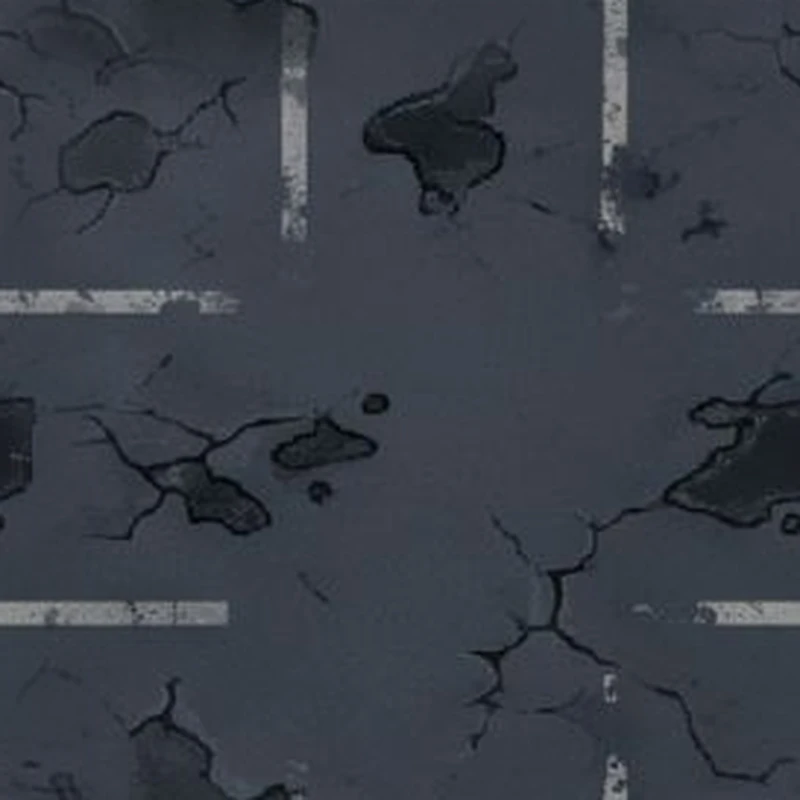
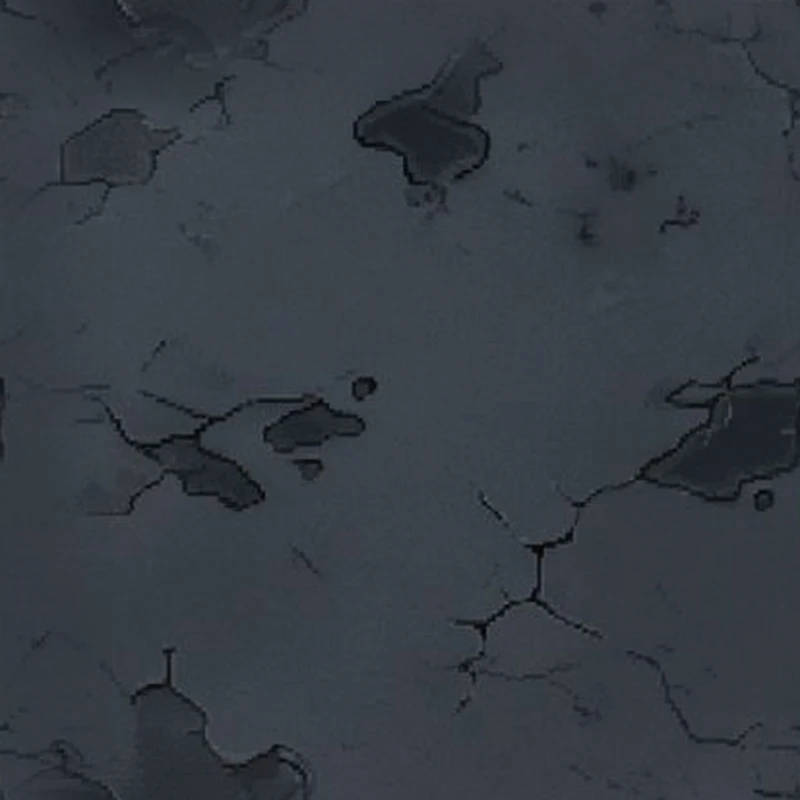
Round 453: the mall's own art; the garden quarter's walls; a second sheet in
Claude-Session: https://claude.ai/code/session_01XB2RMCaJ1aVVtBjSNk3FhS

diff --git a/assets/chrono-gen.js b/assets/chrono-gen.js
@@ -363,7 +363,7 @@ const GEN_THEMES = {
     bossRooms: () => { const R = TILE_WORLD_DATA.chronospire.roles; return [R.boss, R.boss1, R.boss2, R.mini1, R.mini2]; }, landing: null,
     districtNames: ['clock', 'foundry', 'homes', 'ruins'], districts: CHRONO_DISTRICTS, landmarks: CHRONO_LANDMARKS, furniture: CHRONO_FURNITURE, clutter: CHRONO_CLUTTER, scale: CHRONO_SCENERY_SCALE, inlays: CHRONO_INLAYS,
     tex: {}, kerb: ['#1c1206', '#b88a3c', '#5a3f18'], holeRim: ['#8a6c3a', '#17100a'], bedRim: ['#07060f', '#4a3a2a'], yardRim: ['#14101f', '#6f6a86'], groundShade: 'rgba(8,6,24,.28)', lamp: '255,196,96', vignette: '6,4,18' },
-  city: { id: 'city', art: 'assets/environment/city-gen/', version: () => '452',
+  city: { id: 'city', art: 'assets/environment/city-gen/', version: () => '453',
     exits: key => { const r = typeof CITY_ROOMS !== 'undefined' && CITY_ROOMS[key]; if (!r) return null; const out = {}; for (const [d, v] of Object.entries(r.exits)) if (d.length === 1) out[d] = typeof v === 'string' ? v : v.to; return out; },
     world: key => { const [x, y] = key.split(',').map(Number); return [x, y - 4]; },
     bossRooms: () => Object.keys(CITY_ROOMS).filter(k => CITY_ROOMS[k].enemy && enemies[CITY_ROOMS[k].enemy[0]] && enemies[CITY_ROOMS[k].enemy[0]].boss),
@@ -683,9 +683,9 @@ function genWorld(seed) {
 // tall); car (seen from above, facing east); tree (seen from above); sidewalk (Round 407: seamless paving; the first is
 // the city's main paving, the rest by block); edge (Round 409: a border strip run round parks, outer side at the top);
 // trim (Round 410: a border strip framing the squares where objects stand). Prompts: tools/art-refresh/city-topdown-prompts.md.
-const CITY_TD_ART = { 'waterfront-edge': ['shore-crumble', 'shore-seawall'], curb: ['curb-stone', 'curb-granite', 'curb-concrete'], 'park-edge': ['edge-granite', 'edge-kerb', 'edge-grass', 'edge-railing'], sidewalk: ['walk-slabs', 'walk-plates', 'walk-runbond', 'walk-hex', 'walk-poured'], roof: ['roof-tar', 'roof-plate', 'roof-slab', 'roof-finegravel', 'roof-bitumen', 'roof-tarchip', 'roof-seam'], wall: ['wall-concrete', 'wall-panel', 'wall-strip', 'wall-strip-dark'], shop: ['shop-noodle', 'shop-repair', 'shop-shutters'], 'prop-ac': ['ac-1', 'ac-2', 'ac-3', 'ac-twin'], 'prop-vent': ['vent-1', 'vent-3', 'vent-mesh'], 'prop-tank': ['tank-1', 'tank-sphere', 'tank-cylinder'], 'prop-stairs': ['stairs-1'], 'prop-solar': ['solar-1', 'solar-2'], 'prop-skylight': ['skylight-1', 'skylight-grid'], 'sign-h': ['sign-h-pink', 'sign-h-mixed', 'sign-h-pink2', 'sign-h-orange', 'sign-h-zigzag', 'sign-h-rings', 'sign-h-bulbs', 'sign-h-spiral'], 'sign-v': ['sign-v-cyan', 'sign-v-teal', 'sign-v-purple', 'sign-v-red', 'sign-v-tubes', 'sign-v-awning', 'sign-v-bulbs'], car: ['car-pickup', 'car-swat', 'car-forklift', 'car-digger', 'car-buggy', 'car-camper', 'car-trike', 'car-armour', 'car-crawler', 'car-sport', 'car-van', 'car-cargo'], tree: ['tree-1', 'tree-2', 'tree-3', 'tree-oak', 'tree-cypress', 'tree-dead', 'tree-glow', 'bush-flower', 'grass-reeds', 'brambles'], park: ['park-clover', 'park-cracked', 'park-gravel', 'park-leaves', 'park-turf'], 'roof-hole': ['hole-round', 'hole-crack', 'hole-double', 'hole-tear'], 'ruin-wall': ['ruin-concrete', 'ruin-cladding', 'ruin-panel', 'ruin-panel-blown'], rubble: ['rubble-slabs', 'rubble-rebar', 'rubble-masonry', 'rubble-trolley', 'rubble-barrel', 'rubble-glass', 'rubble-cornice', 'rubble-panels'], lamp: ['lamp-arm', 'lamp-twin', 'lamp-led'], 'traffic-light': ['light-pole', 'light-arm'], 'sign-traffic': ['sign-noentry', 'sign-holo'], cargo: ['container-red', 'container-blue', 'container-stack', 'drums', 'pods', 'hover-pallet', 'cable-drum', 'loader'], 'home-wall': ['home-shanty', 'home-pods'], 'home-roof': [], 'prop-heater': [], 'tech-wall': ['tech-megablock'], 'tech-roof': ['tech-led-plates', 'tech-glass-grid'], 'tech-shop': ['tech-lobby'], 'garden-wall': ['garden-greenhouse'], 'garden-roof': ['garden-glass', 'garden-hydro'], 'garden-shop': ['garden-flowers'], 'market-roof': [], 'market-shop': ['market-food', 'market-screens', 'market-pawn', 'market-tech'], clutter: ['dumpster', 'bags', 'vending', 'barricade', 'barrier', 'tyres', 'bench-led', 'recycler'], landmark: ['fountain', 'billboard', 'hovercar', 'sculpture', 'metro', 'holo-stage', 'mech'] };
+const CITY_TD_ART = { 'mall-wall': ['mall-glass-cyan', 'mall-glass-magenta'], 'mall-roof': ['mall-skylights'], 'mall-shop': ['mall-entrance'], 'waterfront-edge': ['shore-crumble', 'shore-seawall'], curb: ['curb-stone', 'curb-granite', 'curb-concrete'], 'park-edge': ['edge-granite', 'edge-kerb', 'edge-grass', 'edge-railing'], sidewalk: ['walk-slabs', 'walk-plates', 'walk-runbond', 'walk-hex', 'walk-poured'], roof: ['roof-tar', 'roof-plate', 'roof-slab', 'roof-finegravel', 'roof-bitumen', 'roof-tarchip', 'roof-seam', 'roof-rubber'], wall: ['wall-concrete', 'wall-panel', 'wall-strip', 'wall-strip-dark'], shop: ['shop-noodle', 'shop-repair', 'shop-shutters'], 'prop-ac': ['ac-1', 'ac-2', 'ac-3', 'ac-twin'], 'prop-vent': ['vent-1', 'vent-3', 'vent-mesh'], 'prop-tank': ['tank-1', 'tank-sphere', 'tank-cylinder'], 'prop-stairs': ['stairs-1'], 'prop-solar': ['solar-1', 'solar-2'], 'prop-skylight': ['skylight-1', 'skylight-grid'], 'sign-h': ['sign-h-pink', 'sign-h-mixed', 'sign-h-pink2', 'sign-h-orange', 'sign-h-zigzag', 'sign-h-rings', 'sign-h-bulbs', 'sign-h-spiral'], 'sign-v': ['sign-v-cyan', 'sign-v-teal', 'sign-v-purple', 'sign-v-red', 'sign-v-tubes', 'sign-v-awning', 'sign-v-bulbs'], car: ['car-pickup', 'car-swat', 'car-forklift', 'car-digger', 'car-buggy', 'car-camper', 'car-trike', 'car-armour', 'car-crawler', 'car-sport', 'car-van', 'car-cargo', 'car-wreck', 'truck-wreck'], tree: ['tree-1', 'tree-2', 'tree-3', 'tree-oak', 'tree-cypress', 'tree-dead', 'tree-glow', 'bush-flower', 'grass-reeds', 'brambles'], park: ['park-clover', 'park-cracked', 'park-gravel', 'park-leaves', 'park-turf'], 'roof-hole': ['hole-round', 'hole-crack', 'hole-double', 'hole-tear'], 'ruin-wall': ['ruin-concrete', 'ruin-cladding', 'ruin-panel', 'ruin-panel-blown', 'ruin-girder'], rubble: ['rubble-slabs', 'rubble-rebar', 'rubble-masonry', 'rubble-trolley', 'rubble-barrel', 'rubble-glass', 'rubble-cornice', 'rubble-panels'], lamp: ['lamp-arm', 'lamp-twin', 'lamp-led'], 'traffic-light': ['light-pole', 'light-arm'], 'sign-traffic': ['sign-noentry', 'sign-holo'], cargo: ['container-red', 'container-blue', 'container-stack', 'drums', 'pods', 'hover-pallet', 'cable-drum', 'loader'], 'home-wall': ['home-shanty', 'home-pods'], 'home-roof': [], 'prop-heater': [], 'tech-wall': ['tech-megablock'], 'tech-roof': ['tech-led-plates', 'tech-glass-grid'], 'tech-shop': ['tech-lobby'], 'garden-wall': ['garden-greenhouse', 'garden-planters', 'garden-moss'], 'garden-roof': ['garden-glass', 'garden-hydro'], 'garden-shop': ['garden-flowers'], 'market-roof': [], 'market-shop': ['market-food', 'market-screens', 'market-pawn', 'market-tech'], clutter: ['dumpster', 'bags', 'vending', 'barricade', 'barrier', 'tyres', 'bench-led', 'recycler', 'pay-bollard'], landmark: ['fountain', 'billboard', 'hovercar', 'sculpture', 'metro', 'holo-stage', 'mech', 'pylon'] };
 // Round 415: for each wall and shopfront strip, the columns (image px) of plain wall between windows (tools/prepare_city_art.py).
-const CITY_TD_GAPS = {'wall-concrete': [4, 19, 29, 41, 127, 134, 147, 258, 440, 446, 453], 'wall-brick': [2, 11, 19, 73, 81, 291, 299, 307, 362, 371, 377, 435, 441, 447, 456, 515, 523, 585, 595, 601, 674, 741, 750, 756, 804], 'wall-panel': [19, 30, 40, 47, 58, 64, 75, 158, 206, 213, 222, 237, 246, 286, 293, 304, 310, 618, 657, 667, 677, 687, 698, 740, 748], 'shop-noodle': [0, 6, 18, 24, 30, 38, 57, 66, 78, 84, 92, 103, 113, 302, 436, 443, 452], 'shop-repair': [25, 34, 41, 48, 56, 63, 76, 170, 176, 197, 280, 287, 401, 409, 437, 444, 450, 457, 596, 606, 628, 641, 655, 662, 669, 675], 'shop-shutters': [12, 28, 40, 79, 85, 100, 107, 125, 238, 252, 306, 320, 473, 479, 506, 515, 527, 538, 544, 559, 665, 671, 688, 698, 717], 'ruin-brick': [2, 8, 19, 33, 91, 131, 138, 167, 173, 180, 186, 281, 348, 362, 429, 435, 442, 448, 519, 544, 611, 624, 692, 698, 705, 711, 783, 796, 806, 872, 880, 890], 'ruin-concrete': [5, 14, 21, 79, 105, 113, 162, 174, 254, 265, 276, 366, 466, 474, 529, 543, 655, 715, 725, 822, 842, 899, 906, 925, 977], 'ruin-cladding': [3, 186, 283, 365, 376, 566, 613, 626, 657, 664, 673, 685, 692, 705, 713, 725, 733, 752, 759, 771, 779, 787, 799, 810, 818, 831, 842, 850, 945], 'ruin-plaster': [53, 68, 80, 104, 131, 175, 196, 402, 426, 434, 441, 576, 591, 601, 640, 656, 672, 686, 697, 844, 854, 885, 914, 920, 928, 935], 'home-tenement': [23, 47, 69, 106, 119, 218, 225, 239, 248, 334, 345, 361, 445, 457, 471, 481, 564, 570, 578, 785, 795, 804, 888, 899, 952, 1022, 1029, 1133, 1144, 1151, 1163, 1244, 1253, 1262, 1351, 1400, 1480, 1492, 1499, 1579, 1589, 1596, 1610, 1618], 'home-shanty': [13, 68, 77, 139, 145, 151, 157, 163, 169, 175, 239, 246, 261, 269, 374, 381, 491, 498, 513, 527, 578, 681, 692, 725, 735, 854, 886], 'tech-megablock': [43, 68, 125, 131, 142, 190, 232, 286, 336, 388, 394, 431, 439, 482, 524, 572, 583, 625, 706, 717, 757, 801, 813, 860, 866, 873, 915, 1010], 'tech-lobby': [0, 26, 37, 61, 75, 87, 100, 129, 142, 152, 158, 172, 394, 402, 410, 426, 434, 697, 710, 743, 752, 791, 972, 982, 989, 1002, 1018], 'garden-ivy': [1, 12, 62, 71, 82, 96, 104, 113, 187, 443, 451, 479, 539, 632, 647, 665, 805, 811], 'garden-greenhouse': [115, 125, 140, 234, 252, 335, 353, 367, 376, 471, 575, 590, 687, 709, 720], 'garden-flowers': [15, 23, 44, 62, 76, 90, 107, 115, 124, 131, 148, 170, 578, 590, 602, 609, 643, 665, 673, 682], 'market-food': [3, 88, 105, 114, 124, 131, 159, 187, 196, 206, 274, 496, 1126, 1149, 1178, 1211, 1219, 1253, 1277, 1305, 1358, 1396, 1424, 1432, 1438, 1453, 1466, 1474, 1486, 1494, 1509, 1526, 1536, 1549, 1579, 1588, 1601, 1611, 1625, 1713], 'market-screens': [41, 61, 99, 105, 119, 126, 132, 140, 150, 278, 284, 293, 301, 559, 612, 689, 713, 719, 860, 873, 895, 901, 946, 952, 962, 968, 977, 1206, 1216, 1236, 1246, 1344, 1352, 1360, 1371, 1505, 1529, 1541, 1628, 1635, 1642, 1704, 1711], 'market-cloth': [13, 24, 67, 74, 83, 89, 142, 155, 319, 336, 450, 460, 467, 479, 498, 505, 515, 523, 590, 605, 769, 781, 793, 804, 835, 846, 890, 925, 959, 973, 981, 990, 1189, 1203, 1225, 1314, 1329, 1343, 1357, 1549, 1555, 1561, 1639, 1647, 1654, 1664, 1684, 1697], 'market-pawn': [12, 30, 46, 59, 68, 83, 94, 102, 113, 125, 136, 155, 301, 310, 340, 352, 575, 608, 782, 944, 953, 959, 966, 980, 988, 997, 1189, 1199, 1210, 1391, 1430, 1439, 1538, 1545, 1567, 1594, 1603, 1610, 1617, 1624, 1635, 1643, 1651, 1661, 1695, 1703, 1718, 1736, 1742], 'wall-strip': [11, 161, 172], 'wall-strip-dark': [11, 126, 154, 161, 168], 'home-pods': [3, 9, 15, 105, 113, 121, 185, 191], 'ruin-panel': [14, 21, 28, 36, 52, 129, 144, 152], 'ruin-panel-blown': [4, 11, 18, 28, 44, 138, 151], 'market-tech': [12, 59, 66, 73, 163, 169, 177] };
+const CITY_TD_GAPS = {'wall-concrete': [4, 19, 29, 41, 127, 134, 147, 258, 440, 446, 453], 'wall-brick': [2, 11, 19, 73, 81, 291, 299, 307, 362, 371, 377, 435, 441, 447, 456, 515, 523, 585, 595, 601, 674, 741, 750, 756, 804], 'wall-panel': [19, 30, 40, 47, 58, 64, 75, 158, 206, 213, 222, 237, 246, 286, 293, 304, 310, 618, 657, 667, 677, 687, 698, 740, 748], 'shop-noodle': [0, 6, 18, 24, 30, 38, 57, 66, 78, 84, 92, 103, 113, 302, 436, 443, 452], 'shop-repair': [25, 34, 41, 48, 56, 63, 76, 170, 176, 197, 280, 287, 401, 409, 437, 444, 450, 457, 596, 606, 628, 641, 655, 662, 669, 675], 'shop-shutters': [12, 28, 40, 79, 85, 100, 107, 125, 238, 252, 306, 320, 473, 479, 506, 515, 527, 538, 544, 559, 665, 671, 688, 698, 717], 'ruin-brick': [2, 8, 19, 33, 91, 131, 138, 167, 173, 180, 186, 281, 348, 362, 429, 435, 442, 448, 519, 544, 611, 624, 692, 698, 705, 711, 783, 796, 806, 872, 880, 890], 'ruin-concrete': [5, 14, 21, 79, 105, 113, 162, 174, 254, 265, 276, 366, 466, 474, 529, 543, 655, 715, 725, 822, 842, 899, 906, 925, 977], 'ruin-cladding': [3, 186, 283, 365, 376, 566, 613, 626, 657, 664, 673, 685, 692, 705, 713, 725, 733, 752, 759, 771, 779, 787, 799, 810, 818, 831, 842, 850, 945], 'ruin-plaster': [53, 68, 80, 104, 131, 175, 196, 402, 426, 434, 441, 576, 591, 601, 640, 656, 672, 686, 697, 844, 854, 885, 914, 920, 928, 935], 'home-tenement': [23, 47, 69, 106, 119, 218, 225, 239, 248, 334, 345, 361, 445, 457, 471, 481, 564, 570, 578, 785, 795, 804, 888, 899, 952, 1022, 1029, 1133, 1144, 1151, 1163, 1244, 1253, 1262, 1351, 1400, 1480, 1492, 1499, 1579, 1589, 1596, 1610, 1618], 'home-shanty': [13, 68, 77, 139, 145, 151, 157, 163, 169, 175, 239, 246, 261, 269, 374, 381, 491, 498, 513, 527, 578, 681, 692, 725, 735, 854, 886], 'tech-megablock': [43, 68, 125, 131, 142, 190, 232, 286, 336, 388, 394, 431, 439, 482, 524, 572, 583, 625, 706, 717, 757, 801, 813, 860, 866, 873, 915, 1010], 'tech-lobby': [0, 26, 37, 61, 75, 87, 100, 129, 142, 152, 158, 172, 394, 402, 410, 426, 434, 697, 710, 743, 752, 791, 972, 982, 989, 1002, 1018], 'garden-ivy': [1, 12, 62, 71, 82, 96, 104, 113, 187, 443, 451, 479, 539, 632, 647, 665, 805, 811], 'garden-greenhouse': [115, 125, 140, 234, 252, 335, 353, 367, 376, 471, 575, 590, 687, 709, 720], 'garden-flowers': [15, 23, 44, 62, 76, 90, 107, 115, 124, 131, 148, 170, 578, 590, 602, 609, 643, 665, 673, 682], 'market-food': [3, 88, 105, 114, 124, 131, 159, 187, 196, 206, 274, 496, 1126, 1149, 1178, 1211, 1219, 1253, 1277, 1305, 1358, 1396, 1424, 1432, 1438, 1453, 1466, 1474, 1486, 1494, 1509, 1526, 1536, 1549, 1579, 1588, 1601, 1611, 1625, 1713], 'market-screens': [41, 61, 99, 105, 119, 126, 132, 140, 150, 278, 284, 293, 301, 559, 612, 689, 713, 719, 860, 873, 895, 901, 946, 952, 962, 968, 977, 1206, 1216, 1236, 1246, 1344, 1352, 1360, 1371, 1505, 1529, 1541, 1628, 1635, 1642, 1704, 1711], 'market-cloth': [13, 24, 67, 74, 83, 89, 142, 155, 319, 336, 450, 460, 467, 479, 498, 505, 515, 523, 590, 605, 769, 781, 793, 804, 835, 846, 890, 925, 959, 973, 981, 990, 1189, 1203, 1225, 1314, 1329, 1343, 1357, 1549, 1555, 1561, 1639, 1647, 1654, 1664, 1684, 1697], 'market-pawn': [12, 30, 46, 59, 68, 83, 94, 102, 113, 125, 136, 155, 301, 310, 340, 352, 575, 608, 782, 944, 953, 959, 966, 980, 988, 997, 1189, 1199, 1210, 1391, 1430, 1439, 1538, 1545, 1567, 1594, 1603, 1610, 1617, 1624, 1635, 1643, 1651, 1661, 1695, 1703, 1718, 1736, 1742], 'wall-strip': [11, 161, 172], 'wall-strip-dark': [11, 126, 154, 161, 168], 'home-pods': [3, 9, 15, 105, 113, 121, 185, 191], 'ruin-panel': [14, 21, 28, 36, 52, 129, 144, 152], 'ruin-panel-blown': [4, 11, 18, 28, 44, 138, 151], 'market-tech': [12, 59, 66, 73, 163, 169, 177], 'garden-planters': [17, 113, 161, 167, 173, 182, 188, 197, 297, 330], 'garden-moss': [10, 21, 29, 37, 119, 217, 271, 315, 325], 'ruin-girder': [21, 29, 42, 48, 57, 65, 78, 105, 343], 'mall-glass-cyan': [94, 112, 122, 252, 271, 281, 299], 'mall-glass-magenta': [79, 88, 164, 181, 210, 217, 225, 305, 341], 'mall-entrance': [35, 82, 117, 126, 168] };
 // Round 420 (owner: "we need to have a rule for each texture tile, there should be tile for under buildings, tile for road,
 // tile for curb, tile for waterfront, tile for roofs, and they should all be labeled and sorted clearly and accounted for in
 // our algorithm for world generation"). Every surface of the top-down city, in drawing order, with its rule, whether it
@@ -716,6 +716,9 @@ const CITY_SURFACES = [
   { key: 'garden-roof', label: 'Garden quarter: roofs', kind: 'building', walk: false, slot: 'garden-roof', rule: 'Every building in this quarter, tiled 160px.' },
   { key: 'garden-shop', label: 'Garden quarter: street floor', kind: 'building', walk: false, slot: 'garden-shop', rule: 'The street floor of a building in this quarter whose street is to the south.' },
     { key: 'market-shop', label: 'Market quarter: street floor', kind: 'building', walk: false, slot: 'market-shop', rule: 'The street floor of a building in this quarter whose street is to the south.' },
+    { key: 'mall-wall', label: 'The mall: walls (one floor)', kind: 'building', walk: false, slot: 'mall-wall', rule: 'Round 453: the upper floors of the city\'s one mall (GEN.mall), fitted floor by floor between windows.' },
+    { key: 'mall-roof', label: 'The mall: roof', kind: 'building', walk: false, slot: 'mall-roof', rule: 'Round 453: the mall\'s one roof; only small kit stands on it (CITY_ROOF_KIT).' },
+    { key: 'mall-shop', label: 'The mall: street floor', kind: 'building', walk: false, slot: 'mall-shop', rule: 'Round 453: the mall\'s front, facing its walkway and parking: entrances and display windows.' },
   // Round 436 (owner's Sheet F): the homes district's own walls and roofs
   { key: 'home-wall', label: 'Homes district: walls (one floor)', kind: 'building', walk: false, slot: 'home-wall', rule: 'Every building in the homes quarter: 3 or 4 floors, no shopfront and no signs; fitted floor by floor between windows (CITY_TD_GAPS).' },
   { key: 'ruin-wall', label: 'Destroyed buildings (burnt-out wall, one floor)', kind: 'building', walk: false, slot: 'ruin-wall', rule: 'A ruin\'s walls, floor by floor between window holes. Round 445: ruins gather in blast zones (the 18% of the city where a smooth noise runs highest): about 6 in 10 buildings there, 1 in 50 elsewhere. A ruin has an ordinary roof and parapet with a large hole in it (props/roof-hole/), no rooftop kit, no shopfront and no signs.' }
@@ -772,7 +775,7 @@ const CITY_HAS = slot => typeof CITY_TD_ART !== 'undefined' && (CITY_TD_ART[slot
 const CITY_CARGO_SIZE = { 'container-red': [150, 1.09], 'container-blue': [150, 1.09], 'container-stack': [150, 0.85], drums: [66, 1.07], pods: [84, 1.07], 'hover-pallet': [76, 1.14], 'cable-drum': [62, 0.94], loader: [72, 1.09] } /* Round 452: the futuristic cargo (the wooden crates, pallets, rope and forklift are gone) */;
 // Round 447: where a landmark stands in its square (r: the lot in room px, less its 4px footing): centred, up to 170px
 // across, at its picture's own proportions (CITY_LANDMARK_ASPECT: width over height).
-const CITY_LANDMARK_ASPECT = { fountain: 1.24, billboard: 1.11, 'holo-stage': 1.26, mech: 1.11, hovercar: 1.26, sculpture: 1.12, metro: 1.01 };
+const CITY_LANDMARK_ASPECT = { fountain: 1.24, billboard: 1.11, 'holo-stage': 1.26, pylon: 0.38, mech: 1.11, hovercar: 1.26, sculpture: 1.12, metro: 1.01 };
 function cityLandmarkBox(l, r) { const asp = CITY_LANDMARK_ASPECT[l.landmark] || 1, bw = r[2] - r[0], bh = r[3] - r[1], w = Math.min(170, bw - 30, (bh - 40) * asp), h = w / asp;
   return { x: (r[0] + r[2]) / 2 - w / 2, y: (r[1] + r[3]) / 2 - h / 2, w, h }; }
 // Round 445: a yard is its own kind of lot (genWorld: lots too small for a building at full scale, and half the building
@@ -808,6 +811,7 @@ function cityYardPieces(seed, l, bx) { const kind = cityYardKind(l), rr = chrono
 // the general ones on about half its buildings. From the lot and the registry alone, so genWorld and the painter agree.
 function cityLotSlots(l) { const DA = CITY_DISTRICT_ART[l.district], ruin = cityIsRuin(l);
   const d = k => DA && DA[k] && CITY_HAS(DA[k]) && ((CITY_TD_ART[DA[k]] || []).length >= 3 || chronoHash('d' + k + ':' + l.seed) % 2 === 0) ? DA[k] : null;
+  if (l.mall === 'building') return { wall: CITY_HAS('mall-wall') ? 'mall-wall' : d('wall') || 'wall', roof: CITY_HAS('mall-roof') ? 'mall-roof' : d('roof') || 'roof', shop: CITY_HAS('mall-shop') ? 'mall-shop' : d('shop') || 'shop', home: false }; // Round 453: the mall's own art
   return { wall: ruin ? 'ruin-wall' : l.wallSlot || d('wall') || 'wall', roof: l.roofSlot || d('roof') || 'roof', shop: d('shop') || 'shop', home: !ruin && l.district === 'homes' && !!(DA && DA.wall && CITY_HAS(DA.wall)) }; }
 // Round 445: a building's storeys. Three at least (owner, Round 427), each CITY_STOREY px on screen where the lot has the
 // depth (its roof keeps 40px), and never under 42px: lots too shallow for that are not buildings (genWorld).
@@ -815,7 +819,7 @@ const CITY_STOREY = 50;
 // Round 446 (owner: "certain roof textures clash with certain roof objects"): what may stand on each roof. A roof that is
 // already a thing in itself takes nothing (a glass roof, vegetable beds: a tank on a greenhouse made no sense); a roof with
 // its own lights or drain takes only small kit. Roofs not listed take everything.
-const CITY_ROOF_KIT = { 'garden-glass': [], 'garden-hydro': [], 'tech-glass-grid': [], 'tech-led-plates': ['prop-ac', 'prop-vent'], 'roof-slab': ['prop-ac', 'prop-vent', 'prop-tank', 'prop-stairs'], 'roof-plate': ['prop-ac', 'prop-vent', 'prop-tank', 'prop-stairs', 'prop-solar'] };
+const CITY_ROOF_KIT = { 'mall-skylights': ['prop-ac', 'prop-vent'], 'garden-glass': [], 'garden-hydro': [], 'tech-glass-grid': [], 'tech-led-plates': ['prop-ac', 'prop-vent'], 'roof-slab': ['prop-ac', 'prop-vent', 'prop-tank', 'prop-stairs'], 'roof-plate': ['prop-ac', 'prop-vent', 'prop-tank', 'prop-stairs', 'prop-solar'] };
 function cityLotFloors(l, floors0) { const bh = l.r[3] - l.r[1] - 8, share = l.district === 'tech' ? 0.82 : 0.66 /* Round 448: downtown is towers: more wall, less roof */, fmax = Math.max(3, Math.floor(bh * share / CITY_STOREY)), floors = Math.max(3, Math.min(floors0, fmax)), dz = Math.min(floors * CITY_STOREY, bh - 40);
   return { floors, dz, storey: dz / floors }; }
 const CITY_DISTRICT_ART = { homes: { wall: 'home-wall' }, tech: { wall: 'tech-wall', roof: 'tech-roof', shop: 'tech-shop' }, garden: { wall: 'garden-wall', roof: 'garden-roof', shop: 'garden-shop' }, market: { roof: 'market-roof', shop: 'market-shop' } };
@@ -830,7 +834,7 @@ function cityParkRubble(seed, l, bx, trees) { if (!CITY_HAS('rubble')) return []
 // street furniture in a room (room px): lamps along both kerbs of the main roads, traffic lights on the corners of real
 // crossings (three or more main roads), a traffic sign where an alley meets a main road. Each is { slot, x, y, h, artR, flip }:
 // (x, y) is the foot of its post, h its drawn height (the picture keeps its own proportions); its post blocks the way.
-const CITY_CLUTTER_H = { dumpster: 40, bags: 24, vending: 46, recycler: 34, barricade: 34, barrier: 26, tyres: 24, 'bench-led': 28 }; // Round 447
+const CITY_CLUTTER_H = { dumpster: 40, bags: 24, vending: 46, recycler: 34, barricade: 34, barrier: 26, tyres: 24, 'bench-led': 28, 'pay-bollard': 30 }; // Round 447
 const CITY_FURNITURE_H = { lamp: 80, 'traffic-light': 70, 'sign-traffic': 48, clutter: 30 }; // Round 425: beside the 60px hero
 function cityStreetFurniture(seed, plan) {
   if (!['lamp', 'traffic-light', 'sign-traffic', 'clutter'].some(CITY_HAS)) return [];

diff --git a/index.html b/index.html
@@ -577,7 +577,7 @@ requestAnimationFrame(loop);
 <script src="assets/vespera-data.js?v=round232"></script>
 <script src="assets/chronospire-data.js?v=round232"></script>
 <script src="assets/tile-worlds.js?v=round379"></script>
-<script src="assets/chrono-gen.js?v=round452"></script>
+<script src="assets/chrono-gen.js?v=round453"></script>
 <script src="assets/world-cards.js?v=round210"></script>
 <script src="assets/world-mechanics.js?v=round278"></script>
 <script src="assets/stagger.js?v=round189"></script>

diff --git a/tools/prepare_city_art.py b/tools/prepare_city_art.py
@@ -26,11 +26,11 @@ ROOT = os.path.join(os.path.dirname(os.path.abspath(__file__)), '..')
 CITY = os.path.join(ROOT, 'assets', 'environment', 'city-gen')
 # Round 420: art is sorted by what it is: the surfaces of the city (CITY_SURFACES in assets/chrono-gen.js) in
 # surfaces/<slot>/, things standing on them in props/<slot>/.
-SURFACE_SLOTS = {'roof', 'wall', 'shop', 'sidewalk', 'curb', 'park-edge', 'waterfront-edge', 'park', 'ruin-wall', 'home-wall', 'home-roof', 'tech-wall', 'tech-roof', 'tech-shop', 'garden-wall', 'garden-roof', 'garden-shop', 'market-roof', 'market-shop'}  # Round 424: park grass, ruins; Round 436: homes
+SURFACE_SLOTS = {'roof', 'wall', 'shop', 'sidewalk', 'curb', 'park-edge', 'waterfront-edge', 'park', 'ruin-wall', 'home-wall', 'home-roof', 'tech-wall', 'tech-roof', 'tech-shop', 'garden-wall', 'garden-roof', 'garden-shop', 'market-roof', 'market-shop', 'mall-wall', 'mall-roof', 'mall-shop'}  # Round 424: park grass, ruins; Round 436: homes
 def out_dir(slot): return os.path.join(CITY, 'surfaces' if slot in SURFACE_SLOTS else 'props', slot)
 def out_path(slot, name): d = out_dir(slot); os.makedirs(d, exist_ok=True); return os.path.join(d, name + '.webp')
 JS = os.path.join(ROOT, 'assets', 'chrono-gen.js')
-TEXTURE = {'roof', 'wall', 'shop', 'sidewalk', 'park-edge', 'curb', 'waterfront-edge', 'park', 'ruin-wall', 'home-wall', 'home-roof', 'tech-wall', 'tech-roof', 'tech-shop', 'garden-wall', 'garden-roof', 'garden-shop', 'market-roof', 'market-shop'}
+TEXTURE = {'roof', 'wall', 'shop', 'sidewalk', 'park-edge', 'curb', 'waterfront-edge', 'park', 'ruin-wall', 'home-wall', 'home-roof', 'tech-wall', 'tech-roof', 'tech-shop', 'garden-wall', 'garden-roof', 'garden-shop', 'market-roof', 'market-shop', 'mall-wall', 'mall-roof', 'mall-shop'}
 SPRITE = {'prop-ac', 'prop-vent', 'prop-tank', 'prop-stairs', 'prop-solar', 'prop-skylight', 'sign-h', 'sign-v', 'car', 'tree', 'rubble', 'lamp', 'traffic-light', 'sign-traffic', 'cargo', 'prop-heater', 'roof-hole', 'clutter', 'landmark'}
 
 
@@ -41,7 +41,7 @@ def blend_x(a, band):
 
 def texture(img, slot):
     a = np.asarray(img.convert('RGB')).astype(np.float32)
-    if slot in ('roof', 'sidewalk', 'park', 'home-roof', 'tech-roof', 'garden-roof', 'market-roof'):
+    if slot in ('roof', 'sidewalk', 'park', 'home-roof', 'tech-roof', 'garden-roof', 'market-roof', 'mall-roof'):
         a = blend_x(a, max(8, a.shape[1] // 8)); a = blend_x(a.transpose(1, 0, 2), max(8, a.shape[0] // 8)).transpose(1, 0, 2)
         return Image.fromarray(a.clip(0, 255).astype(np.uint8)).resize((512, 512), Image.LANCZOS)
     if slot in ('park-edge', 'curb', 'waterfront-edge'):  # Round 410: border strips keep see-through gaps where the green shows between stones
@@ -119,7 +119,7 @@ def register(slot, name):
     body = body[:sm.start()] + new + body[sm.end():]
     open(JS, 'w').write(s[:m.start(1)] + body + s[m.end(1):])
     # Round 435: measured after the list is written (it used to be written over by the stale copy above)
-    if slot in ('wall', 'shop', 'ruin-wall', 'home-wall', 'tech-wall', 'tech-shop', 'garden-wall', 'garden-shop', 'market-shop'): register_gaps(name, gaps(out_path(slot, name)))
+    if slot in ('wall', 'shop', 'ruin-wall', 'home-wall', 'tech-wall', 'tech-shop', 'garden-wall', 'garden-shop', 'market-shop', 'mall-wall', 'mall-shop'): register_gaps(name, gaps(out_path(slot, name)))
 
 
 def sheet(args):
@@ -162,7 +162,7 @@ def objects(args):
 def main():
     if len(sys.argv) > 1 and sys.argv[1] == '--gaps':  # (re)measure every wall and shopfront already in CITY_TD_ART
         s = open(JS).read(); m = re.search(r"const CITY_TD_ART = \{(.*?)\};", s)
-        for slot in ('wall', 'shop', 'ruin-wall', 'home-wall', 'tech-wall', 'tech-shop', 'garden-wall', 'garden-shop', 'market-shop'):
+        for slot in ('wall', 'shop', 'ruin-wall', 'home-wall', 'tech-wall', 'tech-shop', 'garden-wall', 'garden-shop', 'market-shop', 'mall-wall', 'mall-shop'):
             for n in re.findall(r"'([a-z0-9-]+)'", re.search(r"(?<![a-z-])'?" + re.escape(slot) + r"'?: \[(.*?)\]", m.group(1)).group(1)): g = gaps(out_path(slot, n)); register_gaps(n, g); print(n, len(g), 'gaps')
         return
     if len(sys.argv) > 1 and sys.argv[1] == '--sheet': return sheet(sys.argv[2:])

diff --git a/tools/tile_check.py b/tools/tile_check.py
@@ -6,7 +6,7 @@ the score can't measure. Textures that failed the owner's review sit in unused a
 import os, re, sys, numpy as np
 from PIL import Image
 ROOT = os.path.join(os.path.dirname(os.path.abspath(__file__)), '..'); C = os.path.join(ROOT, 'assets', 'environment', 'city-gen', 'surfaces')
-SQUARE = ['sidewalk', 'roof', 'park', 'home-roof', 'tech-roof', 'garden-roof', 'market-roof']; STRIP = ['wall', 'shop', 'ruin-wall', 'home-wall', 'tech-wall', 'tech-shop', 'garden-wall', 'garden-shop', 'market-shop', 'curb', 'park-edge', 'waterfront-edge']
+SQUARE = ['sidewalk', 'roof', 'park', 'home-roof', 'tech-roof', 'garden-roof', 'market-roof', 'mall-roof']; STRIP = ['mall-wall', 'mall-shop', 'wall', 'shop', 'ruin-wall', 'home-wall', 'tech-wall', 'tech-shop', 'garden-wall', 'garden-shop', 'market-shop', 'curb', 'park-edge', 'waterfront-edge']
 LIMIT = 2.8  # Round 438: brick and poured concrete at ~2.6 tile cleanly by eye; a faint cross shows from ~3
 ALPHA = {'curb', 'park-edge', 'waterfront-edge'}  # see-through strips: their gaps throw the score off, judge the previews by eye
 def seam(a, axis):

diff --git a/CHANGES.md b/CHANGES.md
@@ -3496,6 +3496,23 @@ Playtest of Neon Aftermath's three relics (Moon Lens 5,4; Ember Sigil 5,7; Briar
 - Talent descriptions list the per-rank values. Tests updated: round76, chronospire,
   talent-matrix, card-variety, plating-armor.
 
+## Round 453: the mall's own art; the garden quarter's walls; a second sheet in
+
+Owner: "i can make many more if needed, whatever will make the world look better", then a sheet of 12.
+
+- **The mall has its own art**: slots `mall-wall` (glass curtain wall, cyan and magenta), `mall-roof` (decking with skylight
+  strips; only air units and vents stand on it) and `mall-shop` (entrances under a lit canopy, display windows), used by
+  `cityLotSlots` for the lot with `l.mall === 'building'`. The slots are in `CITY_SURFACES`, `tools/prepare_city_art.py` and
+  `tools/tile_check.py`.
+- **Garden quarter walls:** `garden-planters` and `garden-moss` (it was down to one after Round 452).
+- **Also in:** `ruin-girder` (the sheet's green holes filled with near-black), `roof-rubber`, a clean asphalt for the lot
+  ground (no painted marks, replacing Round 452's), the landmark `pylon`, wrecks among the parked cars (`car-wreck`,
+  `truck-wreck`), the clutter `pay-bollard`.
+- Greenish haze round the grow-lights was taken out of the planters wall (green capped at the larger of red and blue).
+- `tools/tile_check.py` marks `roof-rubber` (6.1) and `mall-skylights` (7.0): both are very flat surfaces, which inflates
+  the score (the jump at the edge is divided by a tiny ordinary change); they repeat cleanly in the tiled previews.
+- Tests: `city-layout` checks the mall uses its three slots.
+
 ## Round 452: the city's art reviewed; 19 pieces replaced from the owner's sheet
 
 Owner: "review all of our textures and tiles for neon city and find any that don't fit the theme or need to be improved and

diff --git a/CLAUDE.md b/CLAUDE.md
@@ -5,7 +5,7 @@ build step. Open `index.html` directly. `compendium.html` is the card
 gallery; `arena.html` is a standalone prototype and is left untouched.
 
 **`NOTES.md`** holds the owner's ideas for later (not to build until asked); remind the owner of them when
-relevant. **Read `CHANGES.md` first.** Every round of work (Round 1 to Round 452) is
+relevant. **Read `CHANGES.md` first.** Every round of work (Round 1 to Round 453) is
 logged there with its reasoning. Add a new `## Round N:` entry for each
 change set.
 
@@ -125,7 +125,7 @@ change set.
   Round 449: the main roads' rows and columns come from the seed (`GEN_THEMES.city.mains`; `GEN.seedNow`); a room's
   edge is walkable only on street cells, so every door sits on its road. `tests/playtest-walk.cjs` applies `SEED` after its own `newGame()`.
   Round 450: **one mall a city** (`GEN.mall`): a four-room window holds one wide three-storey building (`l.mall === 'building'`)
-  and parking lots with aisles (`l.mall === 'parking'`, `cityYardPieces`); its streets stay as planned. It has no art of its own yet.
+  and parking lots with aisles (`l.mall === 'parking'`, `cityYardPieces`); its streets stay as planned. Round 453: its own art in the slots `mall-wall`, `mall-roof`, `mall-shop` (`cityLotSlots`).
   Round 421: the **Textures page** (`sprites/index.html`, aethercede.com/sprites) lists all of it by category from
   `sprites/manifest.json`; after adding art run `node tools/build-sprites-manifest.cjs` (`tests/sprites-page.test.cjs` checks it).
 - **Neon Aftermath is one painted world map** (Round 91+):
